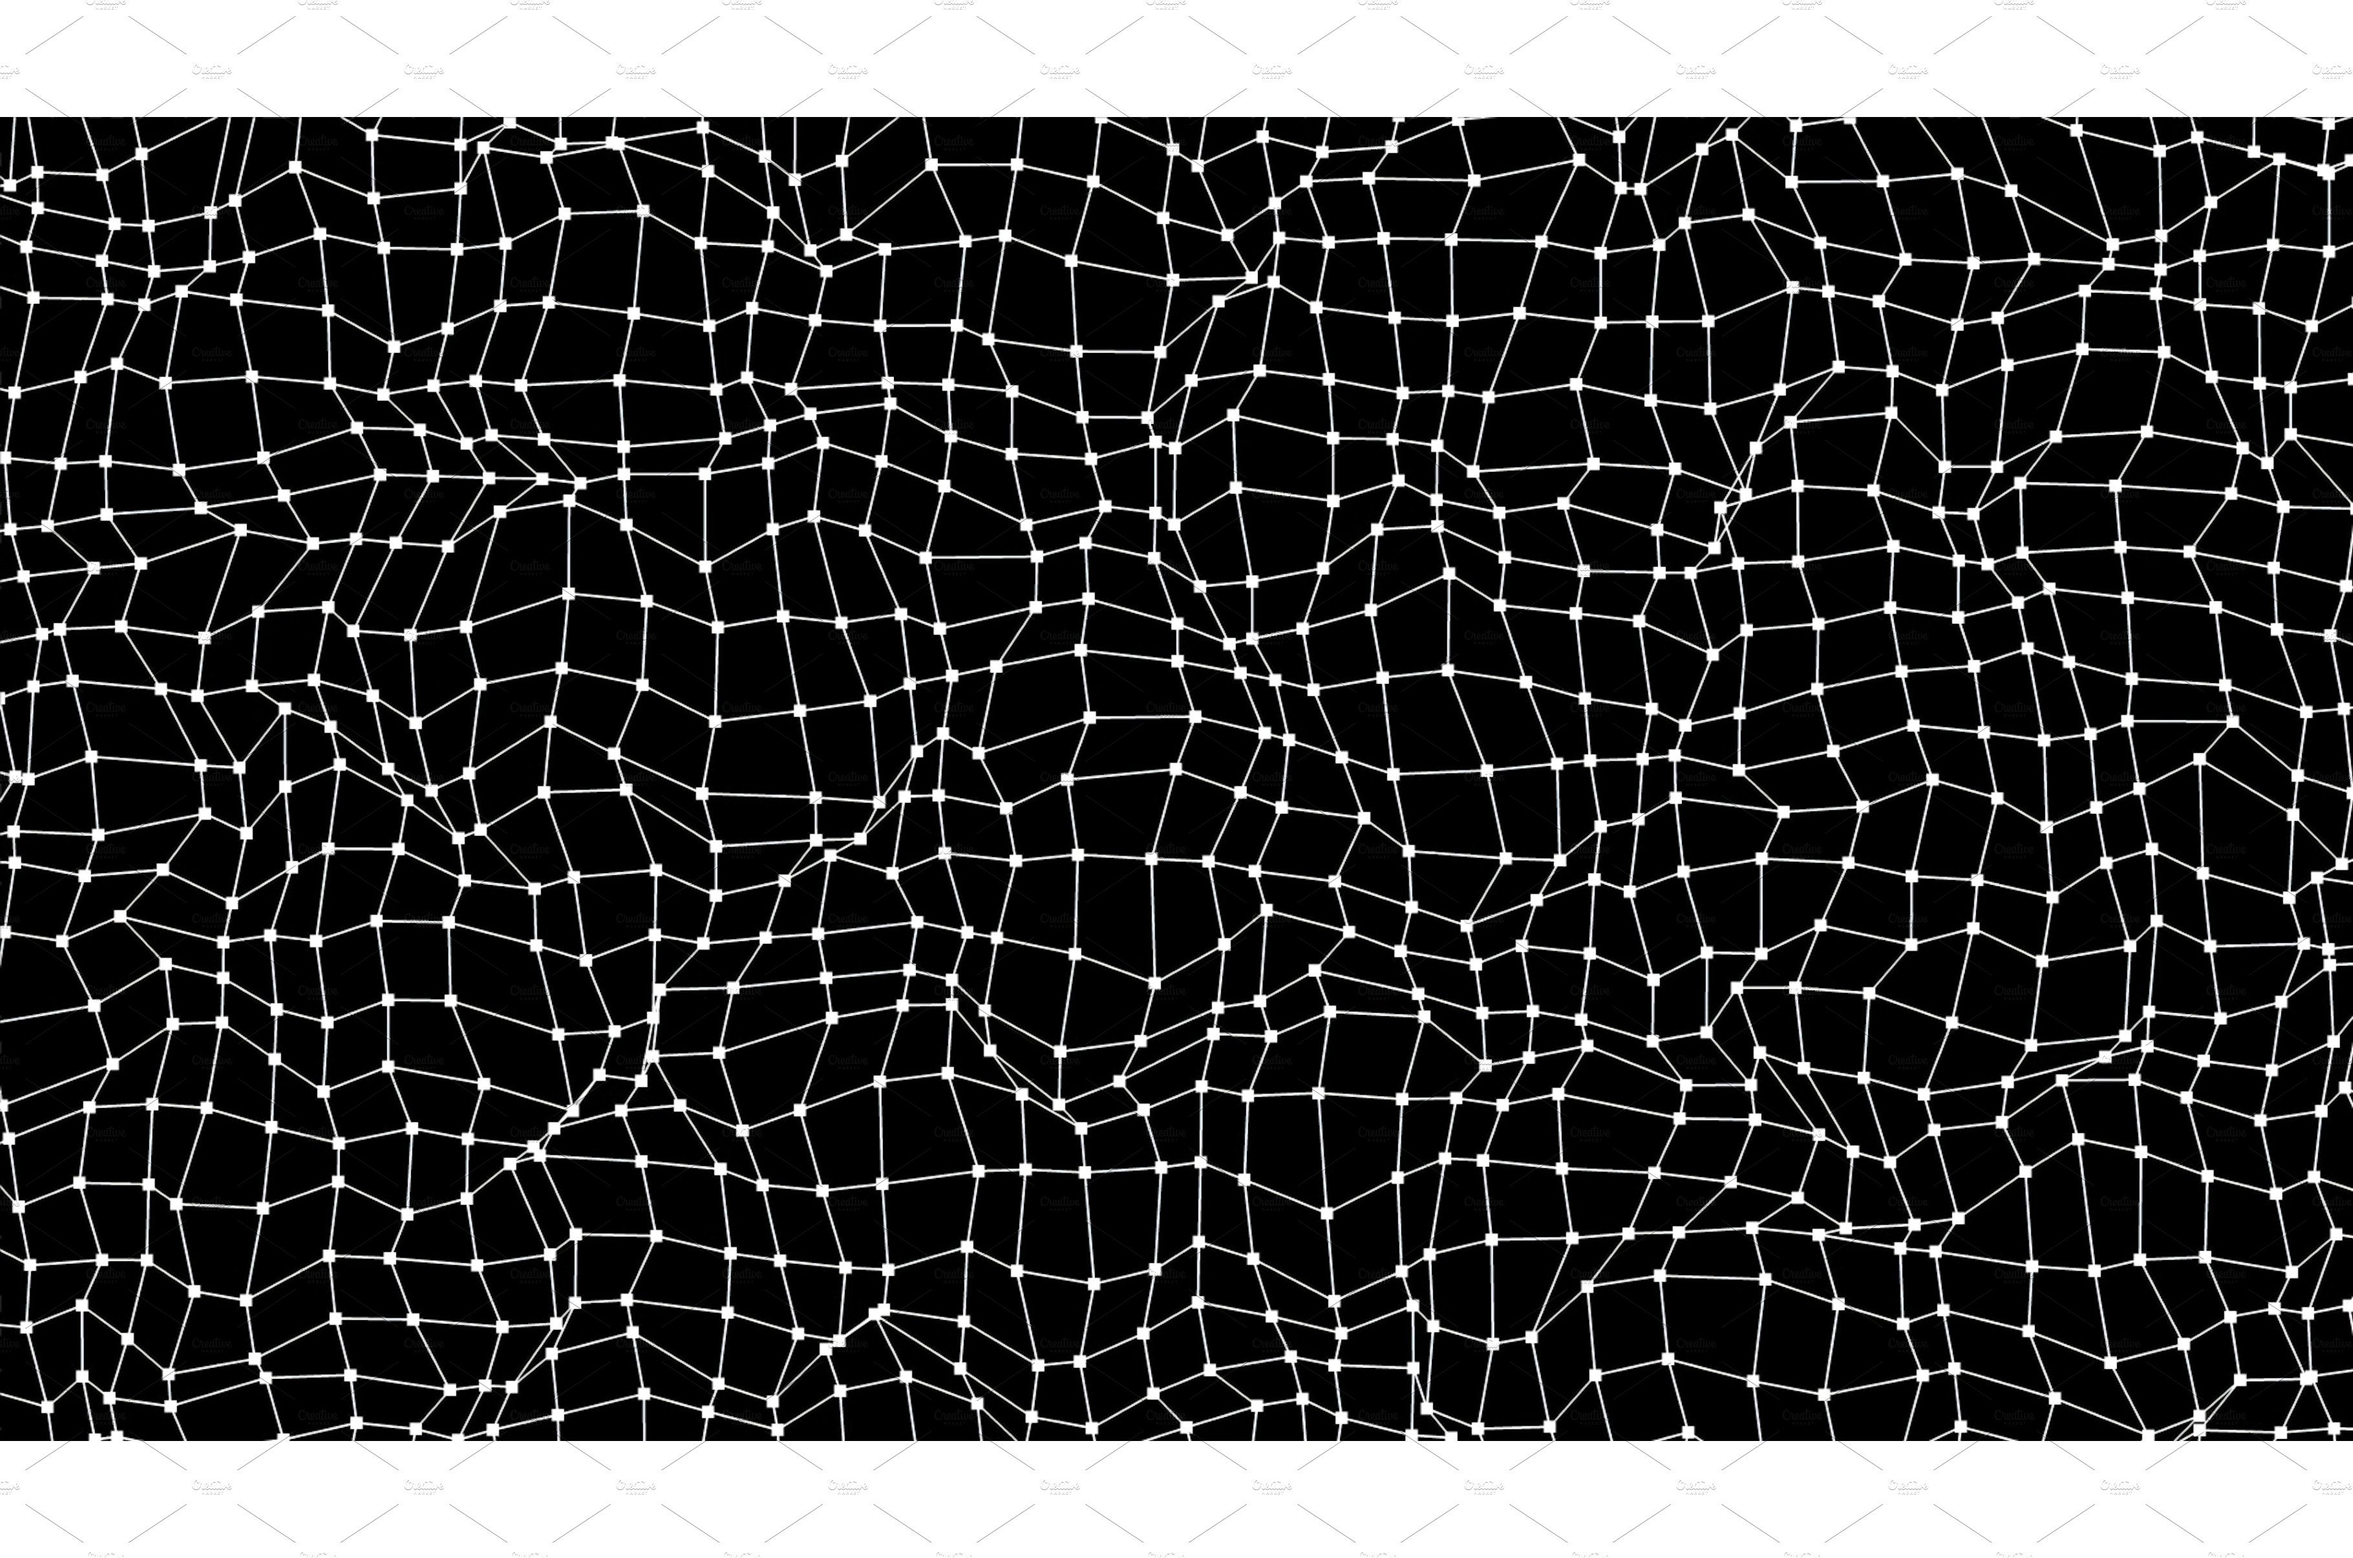
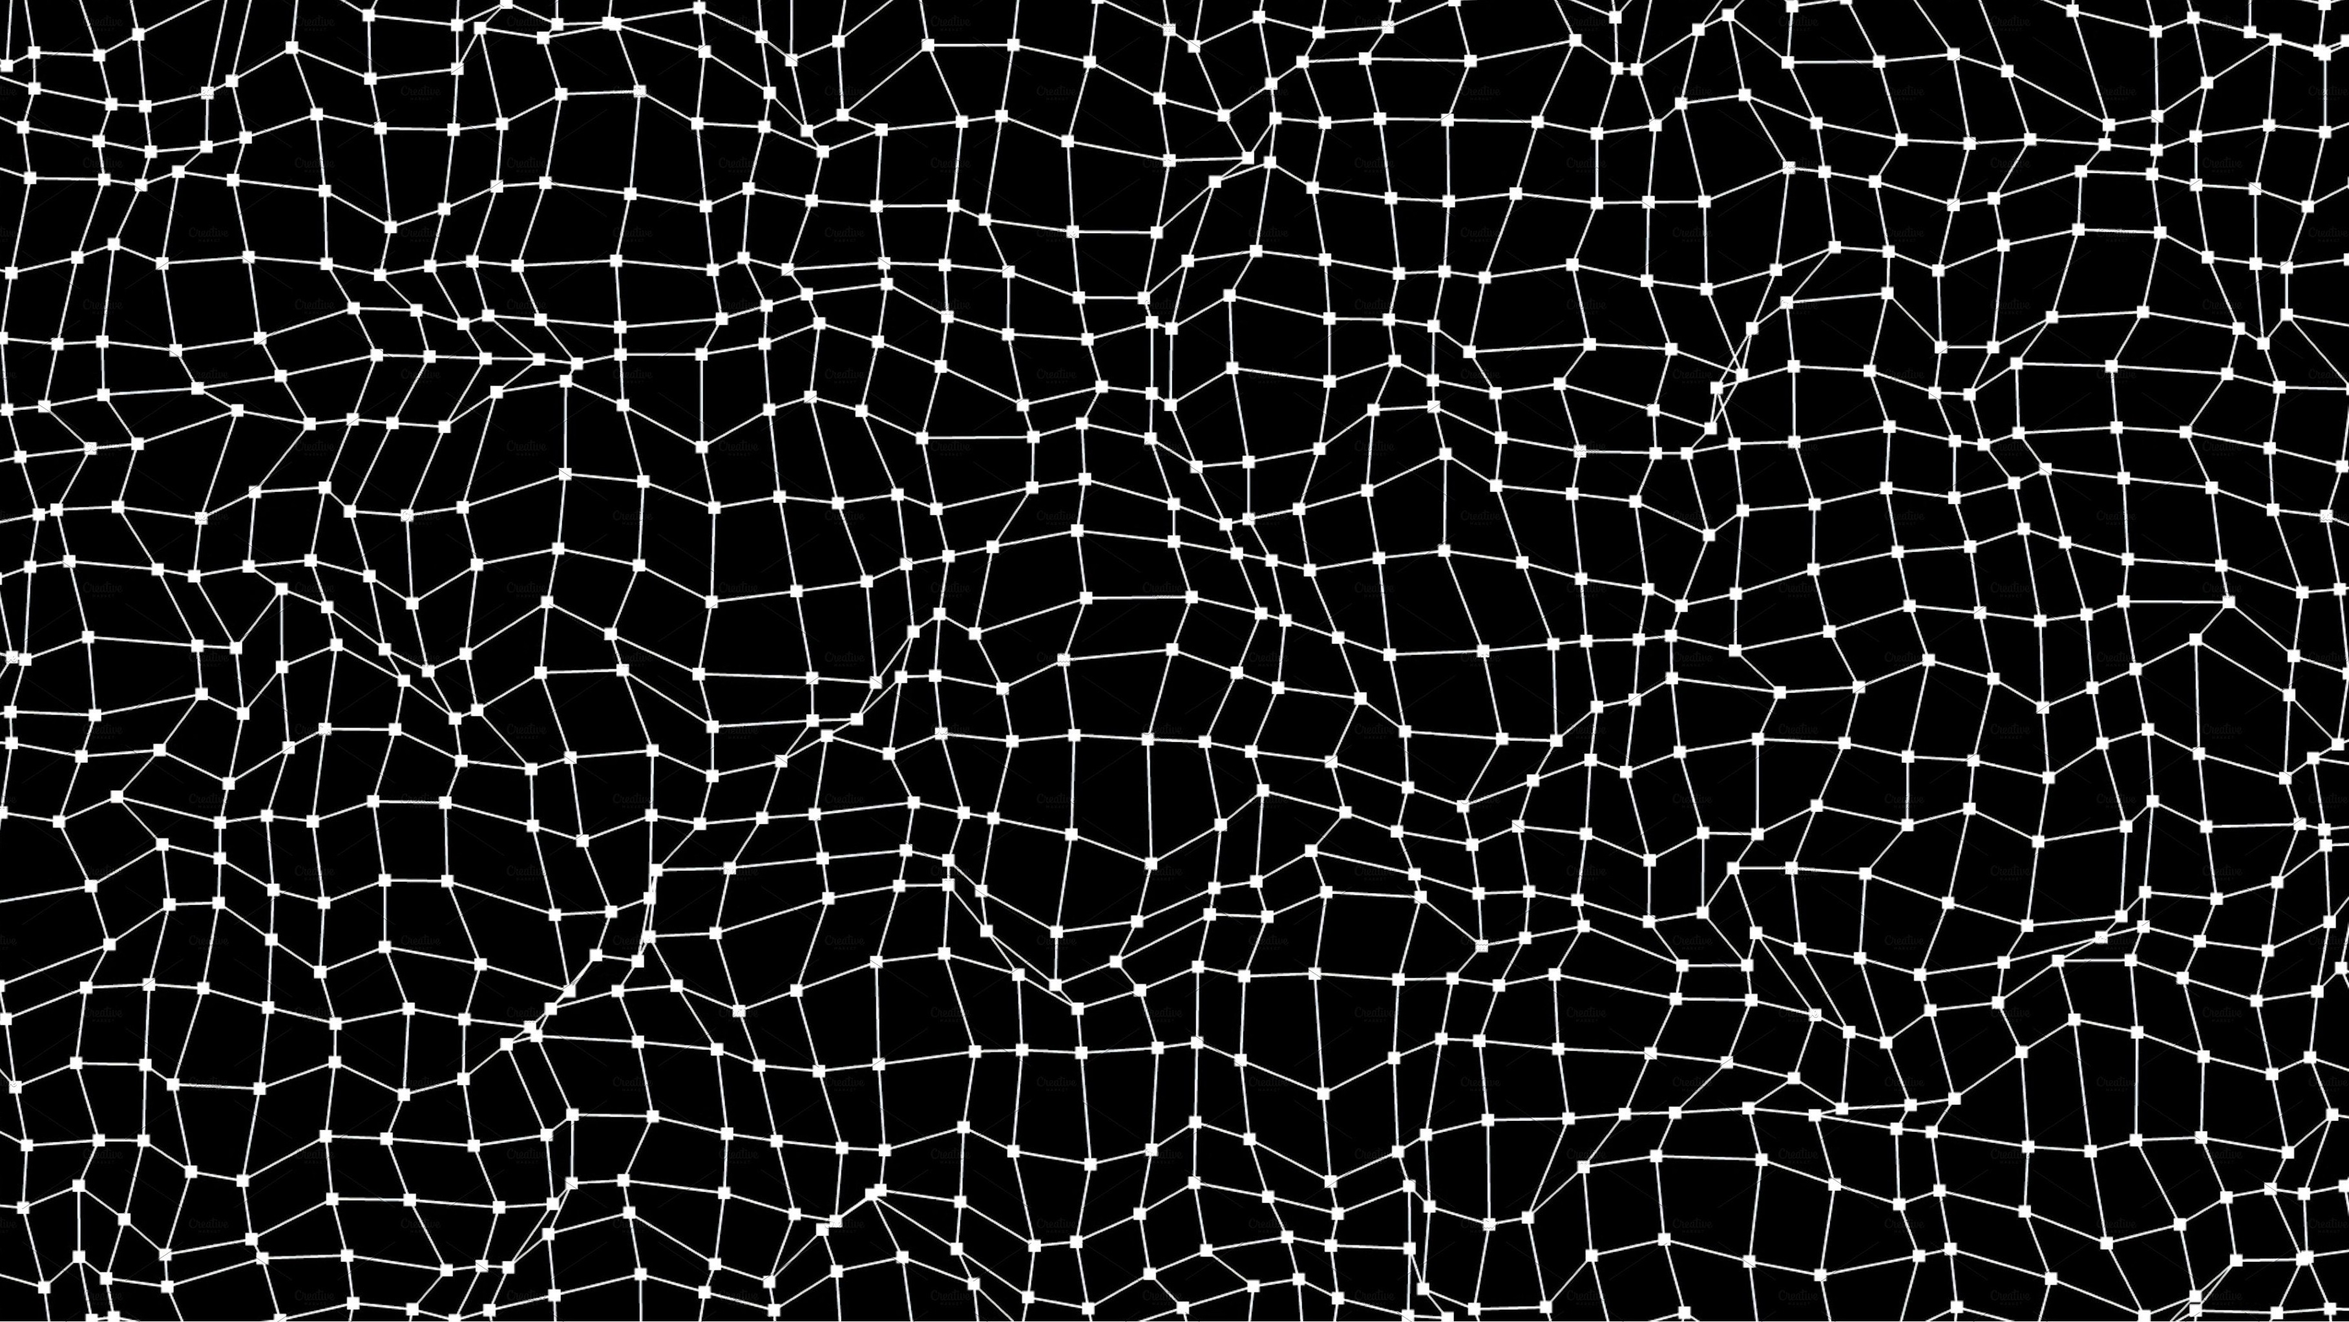
commit

diff --git a/index.html b/index.html
@@ -84,16 +84,16 @@
                         <input type="radio" name="radio-btn" id="radio4">
 
                         <div class="slide first">
-                            <a href="/tela-de-escolha/index.html"><img src="/home/assets/the boys.jpg" alt="the boys image">
-                        </div></a>
-                        <div class="slide">
+                            <a href="/tela-de-escolha/index.html"><img src="/home/assets/the boys.jpg" alt="the boys image"></a>
+                        </div>
+                        <div class="slide first2">
                             <a href="/tela-de-escolha/index.html"><img src="/home/assets/acdc.webp" alt="ACDC image"></a>
                         </div>
-                        <div class="slide">
-                            <a href="/tela-de-escolha/index.html"><img src="/home/assets/Homem-Aranha-no-Aranhaverso.webp" alt="spider man image"></a>
+                        <div class="slide first3">
+                            <a href="/tela-de-escolha/index.html"><img src="/home/assets/Homem-Aranha-no-Aranhaverso.webp" alt="spider man image"><figcaption class="fig3">alguma coisa</figcaption></a>
                         </div>
-                        <div class="slide">
-                            <a href="/tela-de-escolha/index.html"><img src="/home/assets/Chainsaw-Man-Wallpaper-Desktop.jpg" alt="the boys image"></a>
+                        <div class="slide first4">
+                            <a href="/tela-de-escolha/index.html"><img src="/home/assets/Chainsaw-Man-Wallpaper-Desktop.jpg" alt="the boys image"><figcaption class="fig4">alguma coisa</figcaption></a>
                         </div>
 
                         <div class="navigation-auto">
@@ -110,6 +110,75 @@
                             <label for="radio4" class="manual-btn"></label>
                         </div>
                     </div>
+                </div>
+                <div class="coluna">
+                    <ul>
+                        <li><a href="#"><img src="/home/assets/chainsaw-man6.jpg"><figcaption>legenda da imagem legenda da imagem legenda da imagem legenda da imagem</figcaption></a></li>
+                        <li><a href="#"><img src="/home/assets/chainsaw-man6.jpg"><figcaption>legenda da imagem legenda da imagem legenda da imagem legenda da imagem</figcaption></a></li>
+                        <li><a href="#"><img src="/home/assets/chainsaw-man6.jpg"><figcaption>legenda da imagem legenda da imagem legenda da imagem legenda da imagem</figcaption></a></li>
+                        <li><a href="#"><img src="/home/assets/chainsaw-man6.jpg"><figcaption>legenda da imagem legenda da imagem legenda da imagem legenda da imagem</figcaption></a></li>
+                        <li><a href="#"><img src="/home/assets/chainsaw-man6.jpg"><figcaption>legenda da imagem legenda da imagem legenda da imagem legenda da imagem</figcaption></a></li>
+                    </ul>
+                </div>
+            </div>
+            <div class="container2">
+                <div class="pai-fileira">
+                    <ul class="fileira">
+                        <li><a href="#"><img src="/home/assets/Homem-Aranha-no-Aranhaverso.webp"><figcaption>legenda alguma coisa</figcaption></a></li>
+                        <li><a href="#"><img src="/home/assets/Homem-Aranha-no-Aranhaverso.webp"><figcaption>legenda alguma coisa</figcaption></a></li>
+                        <li><a href="#"><img src="/home/assets/Homem-Aranha-no-Aranhaverso.webp"><figcaption>legenda alguma coisa</figcaption></a></li>
+                    </ul>
+                    <ul class="fileira">
+                        <li><a href="#"><img src="/home/assets/Homem-Aranha-no-Aranhaverso.webp"><figcaption>legenda alguma coisa</figcaption></a></li>
+                        <li><a href="#"><img src="/home/assets/Homem-Aranha-no-Aranhaverso.webp"><figcaption>legenda alguma coisa</figcaption></a></li>
+                        <li><a href="#"><img src="/home/assets/Homem-Aranha-no-Aranhaverso.webp"><figcaption>legenda alguma coisa</figcaption></a></li>
+                    </ul>
+                </div>
+            </div>
+            <div class="container3">
+                <div class="slider">
+                    <div class="slides">
+                        <input type="radio" name="radio-btn" id="radio1">
+                        <input type="radio" name="radio-btn" id="radio2">
+                        <input type="radio" name="radio-btn" id="radio3">
+                        <input type="radio" name="radio-btn" id="radio4">
+
+                        <div class="slide first">
+                            <a href="/tela-de-escolha/index.html"><img src="/home/assets/the boys.jpg" alt="the boys image"><figcaption class="fig"> alguma coisa alguma coisa alguma coisa alguma coisa alguma coisa alguma coisaalguma coisaalguma coisa alguma coisaalguma coisa alguma coisaalguma coisaalguma coisaalguma coisaalguma coisa</figcaption></a>
+                        </div>
+                        <div class="slide first2">
+                            <a href="/tela-de-escolha/index.html"><img src="/home/assets/acdc.webp" alt="ACDC image"><figcaption class="fig2">alguma coisa</figcaption></a>
+                        </div>
+                        <div class="slide first3">
+                            <a href="/tela-de-escolha/index.html"><img src="/home/assets/Homem-Aranha-no-Aranhaverso.webp" alt="spider man image"><figcaption class="fig3">alguma coisa</figcaption></a>
+                        </div>
+                        <div class="slide first4">
+                            <a href="/tela-de-escolha/index.html"><img src="/home/assets/Chainsaw-Man-Wallpaper-Desktop.jpg" alt="the boys image"><figcaption class="fig4">alguma coisa</figcaption></a>
+                        </div>
+
+                        <div class="navigation-auto">
+                            <div class="auto-btn1"></div>
+                            <div class="auto-btn2"></div>
+                            <div class="auto-btn3"></div>
+                            <div class="auto-btn4"></div>
+                        </div>
+
+                        <div class="manual-navigation">
+                            <label for="radio1" class="manual-btn"></label>
+                            <label for="radio2" class="manual-btn"></label>
+                            <label for="radio3" class="manual-btn"></label>
+                            <label for="radio4" class="manual-btn"></label>
+                        </div>
+                    </div>
+                </div>
+                <div class="coluna">
+                    <ul>
+                        <li><a href="#"><img src="/home/assets/chainsaw-man6.jpg"><figcaption>legenda da imagem legenda da imagem legenda da imagem legenda da imagem</figcaption></a></li>
+                        <li><a href="#"><img src="/home/assets/chainsaw-man6.jpg"><figcaption>legenda da imagem legenda da imagem legenda da imagem legenda da imagem</figcaption></a></li>
+                        <li><a href="#"><img src="/home/assets/chainsaw-man6.jpg"><figcaption>legenda da imagem legenda da imagem legenda da imagem legenda da imagem</figcaption></a></li>
+                        <li><a href="#"><img src="/home/assets/chainsaw-man6.jpg"><figcaption>legenda da imagem legenda da imagem legenda da imagem legenda da imagem</figcaption></a></li>
+                        <li><a href="#"><img src="/home/assets/chainsaw-man6.jpg"><figcaption>legenda da imagem legenda da imagem legenda da imagem legenda da imagem</figcaption></a></li>
+                    </ul>
                 </div>
             </div>
         </section>

diff --git a/home/css/style.css b/home/css/style.css
@@ -19,8 +19,8 @@
 }
 .caixa-load{
     position: absolute;
-    width: 100%;
-    height: 100%;
+    width: 100vw;
+    height: 100vh;
     z-index: 1;
     display: flex;
     background-color: rgb(255, 255, 255);
@@ -28,11 +28,14 @@
     align-items: center;
 }
 .content{
+    width: 100vw;
+    height: 100vh;
     display: none;
 }
 body{
+    max-width: 100vw;
     background-image: url(/home/assets/HD\ wallpaper_\ abstract\,\ fluid\,\ liquid\,\ artwork\,\ ArtStation\,\ red\,\ neon.jpg);
-    background-size: 100% 111vh;
+    background-size: 100vw 130vh;
     background-repeat: repeat;
     overflow-x: hidden;
 }
@@ -50,7 +53,7 @@ body{
 }
 .center{
     padding: 0 2%;
-    width: 100%;
+    width: 100vw;
     height: 70px;
     display: flex;
     font-size: 15px;
@@ -144,9 +147,29 @@ body{
     background-color: black;
 }
 .container{
-    width: 100%;
-    height: 100vh;
+    background: linear-gradient(to top, black, rgba(0, 0, 0, 0));
+    width: 100vw;
+    height: 100%;
     padding: 0 5%;
+    padding-top: 40px;
+    padding-bottom: 80px;
+    display: flex;
+}
+.container2{
+    background: linear-gradient(to top, black, #ad1010, black);
+    width: 100vw;
+    height: 130vh;
+    padding: 0 5%;
+    padding-top: 80px;
+    display: flex;
+}
+.container3{
+    background: linear-gradient(to top, rgba(0, 0, 0, 0), black);
+    width: 100vw;
+    height: 100%;
+    padding: 0 5%;
+    padding-top: 40px;
+    padding-bottom: 80px;
     display: flex;
 }
 .slider{
@@ -156,7 +179,7 @@ body{
 }
 .slides{
     width: 400%;
-    height: 400px;
+    height: 500px;
     display: flex;
 }
 .slides input{
@@ -169,12 +192,45 @@ body{
 }
 .slide img{
     width: 800px;
-    height: 400px;
+    height: 500px;
+    object-fit: cover;
+}
+.coluna{
+    margin-left: 30px;
+    width: 400px;
+    height: 500px;
+    font-family: 'Roboto Slab', serif;
+    font-size: 15px;
+}
+.coluna ul{
+    width: 100%;
+    height: 100%;
+}
+.coluna li{
+    width: 100%;
+    height: 20%;
+}
+.coluna li a{
+    width: 100%;
+    height: 100%;
+    display: flex;
+    color: white;
+}
+.coluna li figcaption{
+    display: flex;
+    align-items: center;
+    margin-left: 10px;
+}
+.coluna ul li img{
+    object-fit: cover;
+    width: 100px;
+    height: 100px;
+    padding: 5px;
 }
 .manual-navigation{
     position: absolute;
     width: 800px;
-    margin-top: 370px;
+    margin-top: 450px;
     display: flex;
     justify-content: center;
 }
@@ -212,7 +268,7 @@ body{
 .navigation-auto{
     position: absolute;
     width: 800px;
-    margin-top: 371px;
+    margin-top: 451px;
     display: flex;
     justify-content: center;
 }
@@ -230,6 +286,37 @@ body{
 }
 #radio4:checked ~ .navigation-auto .auto-btn4{
     background-color: white;
+}
+.pai-fileira{
+    width:  100%;
+    height: 300px;
+}
+.fileira{
+    display: flex;
+    width: 100%;
+    height: 100%;
+    margin-bottom: 100px;
+}
+.fileira li:not(:last-child){
+    padding-right: 20px;
+}
+.fileira li a{
+    width: 100%;
+    height: 100%;
+}
+.fileira li img{
+    object-fit: cover;
+    width: 100%;
+    height: 100%;
+}
+.fileira figcaption{
+    width: 29vw;
+    height: 60px;
+    padding: 10px;
+    background-color: rgba(0, 0, 0, 0.521);
+    color: white;
+    position: absolute;
+    margin-top: -64px;
 }
 .rodape{
     width: 100vw;
@@ -357,7 +444,23 @@ body{
     .container{
         padding: 0 2%;
         width: 100vw;
-        height: 100vh;    
+        height: 75vh;
+        padding-top: 10px;
+        padding-bottom: 20px;
+    }
+    .container2{
+        padding: 0 2%;
+        width: 100vw;
+        height: 90vh;    
+    }
+    .container3{
+        padding: 0 2%;
+        padding-bottom: 10px;
+        width: 100vw;
+        height: 70vh;    
+    }
+    .fileira{
+        margin-bottom: 20px;
     }
     .rodape{
         background-color: white;

diff --git a/home/js/script.js b/home/js/script.js
@@ -1,6 +1,7 @@
 const navegação = document.querySelector('.navegação');
 const menu = document.querySelector('.menu');
 const html = document.querySelector('html');
+const body = document.querySelector('body')
 const item1 = document.querySelector('.item1');
 const item2 = document.querySelector('.item2');
 const item3 = document.querySelector('.item3');
@@ -10,6 +11,14 @@ const lista2 = document.querySelector('.lista2');
 const lista3 = document.querySelector('.lista3');
 const lista4 = document.querySelector('.lista4');
 const cima = document.querySelector('.fa-regular');
+const slide = document.querySelector('.first')
+const slide2 = document.querySelector('.first2')
+const slide3 = document.querySelector('.first3')
+const slide4 = document.querySelector('.first4')
+const figcap = document.querySelector('.fig')
+const figcap2 = document.querySelector('.fig2')
+const figcap3 = document.querySelector('.fig3')
+const figcap4 = document.querySelector('.fig4')
 let timer;
 let count = 1;
 const menuativo = document.querySelector('.menu.ativo');
@@ -53,13 +62,37 @@ item4.addEventListener('mouseover', () =>{
     document.querySelector('.lista2').classList.remove('donw')
     document.querySelector('.lista3').classList.remove('donw')
 })
+
+body.addEventListener('mouseover', () =>{
+    document.querySelector('.figcap').classList.remove('legenda')
+    document.querySelector('.figcap2').classList.remove('legenda')
+    document.querySelector('.figcap3').classList.remove('legenda')
+    document.querySelector('.figcap4').classList.remove('legenda')
+})
+
+slide.addEventListener('mouseover', () =>{
+    figcap.classList.toggle('legenda')
+})
+
+slide2.addEventListener('mouseover', () =>{
+    figcap2.classList.toggle('legenda')
+})
+
+slide3.addEventListener('mouseover', () =>{
+    figcap3.classList.toggle('legenda')
+})
+
+slide4.addEventListener('mouseover', () =>{
+    figcap4.classList.toggle('legenda')
+})
+
 function exibirBotão() {
     cima.classList.add('visivel');
     clearTimeout(timer);
     timer = setTimeout(() => {
       cima.classList.remove('visivel');
     }, 2000);
-  }
+}
 
 window.addEventListener('scroll', () =>{
     exibirBotão()
